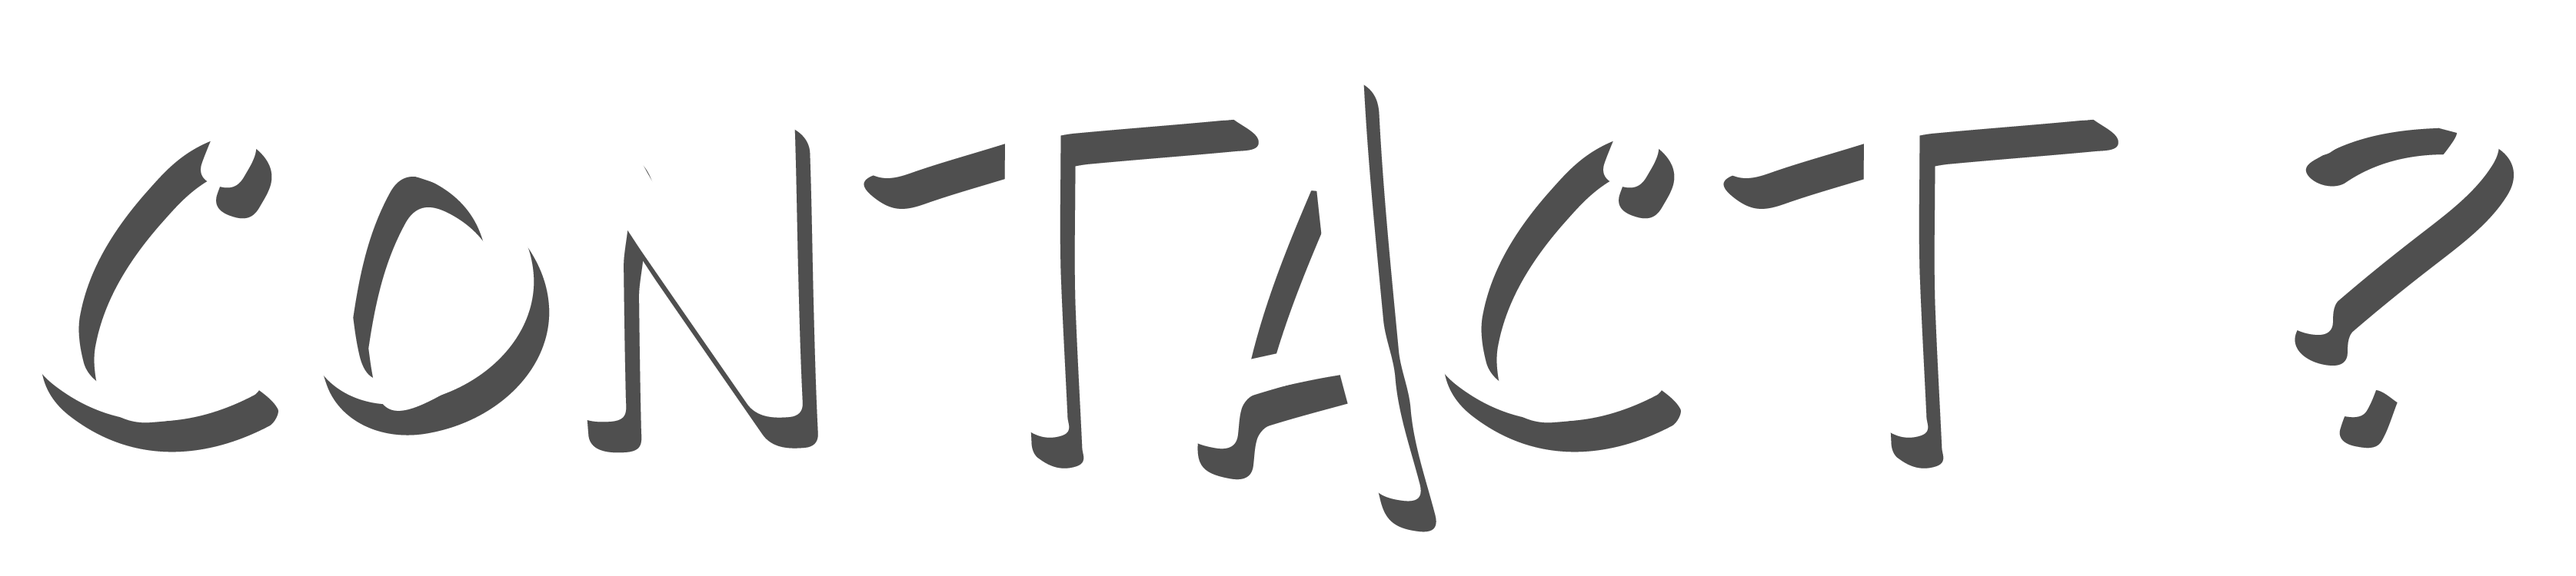
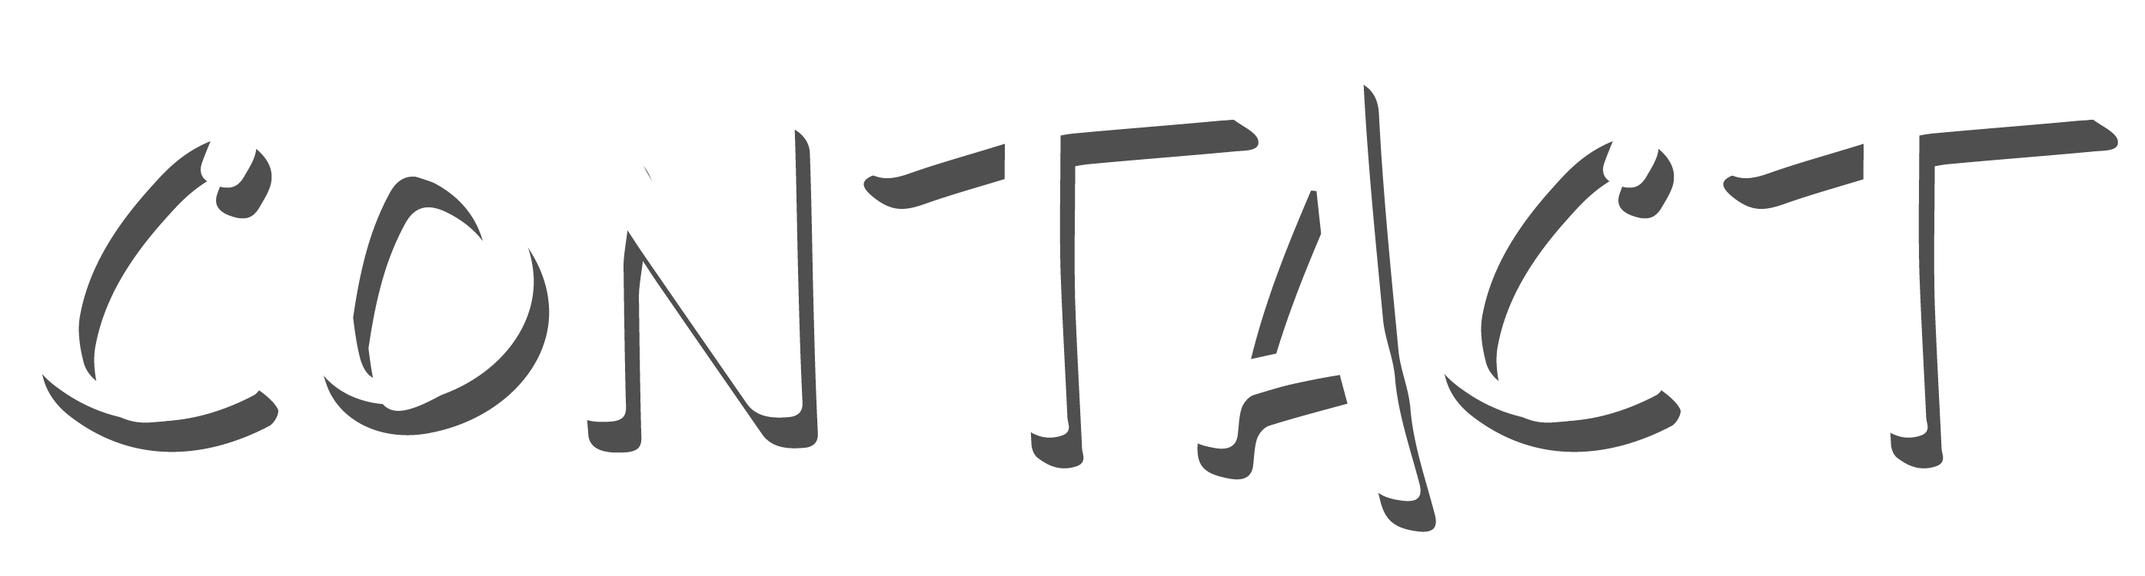
add new data and pic

Changed region(s): [[0.0, 0.1533, 0.9978, 0.92], [0.2806, 0.2453, 0.3118, 0.3067]]

diff --git a/static/css/style.css b/static/css/style.css
@@ -126,69 +126,7 @@ img.flip {
   animation-duration: 5s !important;
 }
 
-@keyframes jumpper {
-  0%, 20%, 40%, 60%, 80% {transform: translateY(0);} 
-  10% {transform: translateY(-50px);}
-  30% {transform: translateY(-50px);} 
-  50% {transform: translateY(-50px);} 
-  70% {transform: translateY(-50px);} 
-  90% {transform: translateY(-50px);} 
-  
-  10% {
-    left: 1200px;
-  }
-  15% {
-    left: 1100px;
-  }
-  20% {
-    left: 1000px;
-  }
-  25% {
-    left: 900px;
-  }
-  30% {
-    left: 800px;
-  }
-  35% {
-    left: 700px;
-  }
-  40% {
-    left: 600px;
-  }
-  45% {
-    left: 500px;
-  }
-  50% {
-    left: 400px;
-  }
-  55% {
-    left: 300px;
-  }
-  60% {
-    left: 200px;
-  }
-  65% {
-    left: 100px;
-  }
-  70% {
-    left: 0px;
-  }
-  75% {
-    left: -100px;
-  }
-  80% {
-    left: -200px;
-  }
-  85% {
-    left: -300px;
-  }
-  90% {
-    left: -400px;
-  }
-  100% {
-    left: -500px;
-  }
-}
+@keyframes jumpper{0%,20%,40%,60%,80%{transform:translateY(0)}10%,30%,50%,70%,90%{transform:translateY(-50px)}10%{left:1200px}15%{left:1100px}20%{left:1000px}25%{left:900px}30%{left:800px}35%{left:700px}40%{left:600px}45%{left:500px}50%{left:400px}55%{left:300px}60%{left:200px}65%{left:100px}70%{left:0}75%{left:-100px}80%{left:-200px}85%{left:-300px}90%{left:-400px}100%{left:-500px}}
 
 .landing-height .hello-field {
   max-height: 300px;
@@ -270,12 +208,14 @@ img.breaklimit {
   min-height: 90vh;
   background-image: url('../img/bg6.png');
   background-size: cover;
-  background-position: center bottom;
+  background-position: center 99%;
 }
 
 footer {
+  font-family: 'quark';
+  font-size: 15px;
   color: #fff;
-  min-height: 150px;
+  min-height: 70px;
   background-color: #324663;
 }
 

diff --git a/pages/containers/Sponsor.js b/pages/containers/Sponsor.js
@@ -5,9 +5,10 @@ class SponsorPage extends React.Component {
     return (
       <div className="row sponsor-height">
         <div className="col-12 text-center">
-          Sponsor by <br />
-          <img style={{width:'250px'}} src="../../static/img/logo-sit.png" alt="logo-sit" /> <br />
-          created by <br />
+          <br />
+          Sponsor by<br />
+          <img style={{ width: '250px' }} src="../../static/img/logo-sit.png" alt="logo-sit" /> <br /><br />
+          Created by<br />
           <img style={{height:'150px'}} src="../../static/img/logo-white1.png" alt="logo-alchemist" />
         </div>
       </div>

diff --git a/pages/containers/Footer.js b/pages/containers/Footer.js
@@ -5,8 +5,9 @@ class Footer extends React.Component {
     return (
       <footer className="row">
         <div className="container">
-          <div className="row text-center">
-            footer
+          <div className="row text-center justify-content-center">
+            &copy; Copyright 2017 - 2022 <br />
+            HelloWorld #Alpaca , Alchemist . All right reserved.
           </div>
         </div>
       </footer>

diff --git a/pages/containers/Contact.js b/pages/containers/Contact.js
@@ -5,7 +5,7 @@ class ContactPage extends React.Component {
     return (
       <div id="contact" className="row contact-height">
         <div className="col-12 text-center">
-          <h1>ContactPage</h1>
+          <img className="what-text" src="../../static/img/contact.png" alt="contact" />
           {/* <img style={{height:'300px'}} src="../../static/img/alpaca.gif" alt="alpaca-gif" /> */}
         </div>
       </div>
